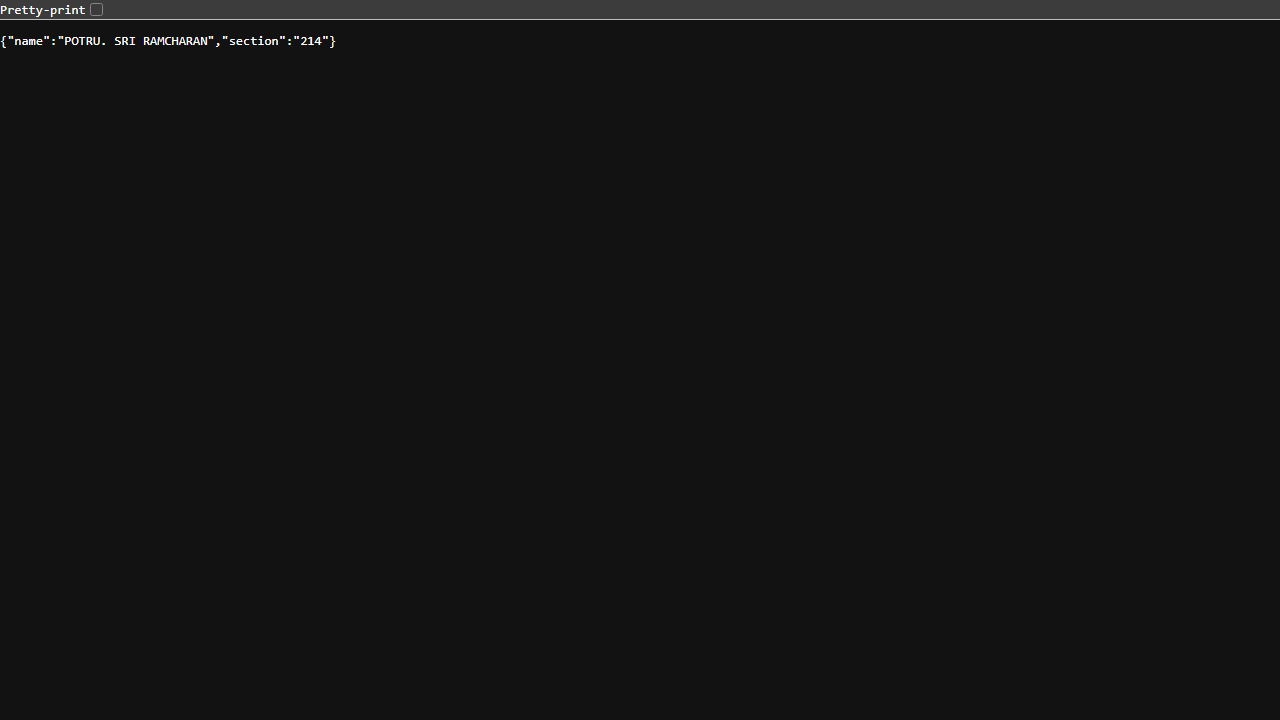
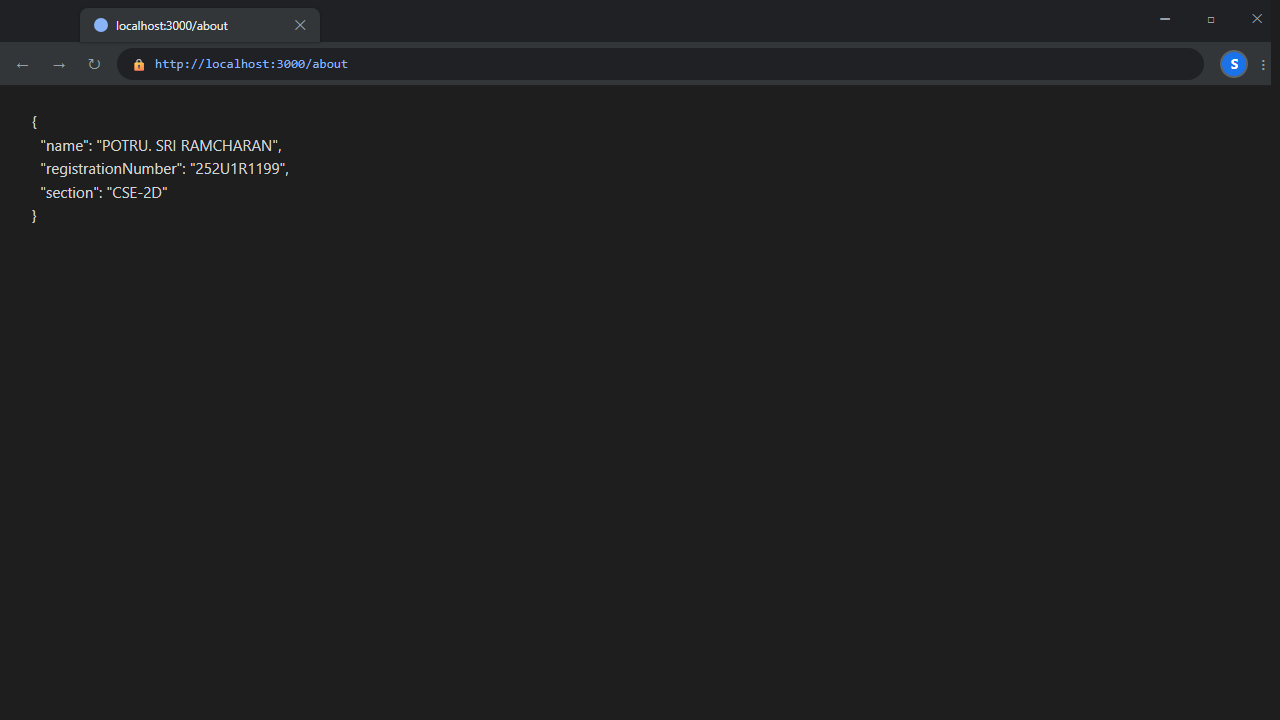
docs: update student info to POTRU. SRI RAMCHARAN, CSE-2D, add render.yaml, and natural laptop screenshots

Changed region(s): [[0.0, 0.0, 1.0, 0.1222], [0.0312, 0.1833, 0.2188, 0.275]]

diff --git a/lab-01/server.js b/lab-01/server.js
@@ -6,7 +6,8 @@ const PORT = process.env.PORT || 3000;
 // Student details
 const studentInfo = {
   name: process.env.STUDENT_NAME || 'POTRU. SRI RAMCHARAN',
-  section: process.env.STUDENT_SECTION || '214'
+  registrationNumber: process.env.STUDENT_REG_NO || '252U1R1199',
+  section: process.env.STUDENT_SECTION || 'CSE-2D'
 };
 
 // GET / - Return a welcome message
@@ -14,10 +15,11 @@ app.get('/', (req, res) => {
   res.status(200).send('Welcome to the Node.js and Express Server API!');
 });
 
-// GET /about - Return a JSON object containing full name and section
+// GET /about - Return a JSON object containing full name, registration number, and section
 app.get('/about', (req, res) => {
   res.status(200).json({
     name: studentInfo.name,
+    registrationNumber: studentInfo.registrationNumber,
     section: studentInfo.section
   });
 });
@@ -42,4 +44,3 @@ app.use((req, res) => {
 app.listen(PORT, () => {
   console.log(`Express server running on http://localhost:${PORT}`);
 });
-

diff --git a/lab-01/README.md b/lab-01/README.md
@@ -1,8 +1,15 @@
 # Lab 1: Node.js and Express server
 
-**POTRU. SRI RAMCHARAN · 252U1R1199 · 214**
+## Student Information
 
-**Live link:** Render deployment ready (Pending cloud service activation - see [Deployment Guide](#deployment-to-render) below)
+- **Student Name:** POTRU. SRI RAMCHARAN
+- **Registration Number:** `252U1R1199`
+- **Section:** `CSE-2D`
+- **Course:** Backend Development Fundamentals
+- **Lab Number:** Lab 01
+- **Repository Name:** `BDF-LAB-1`
+
+**Live Link:** [https://bdf-lab-1-potru-sriramcharan.onrender.com](https://bdf-lab-1-potru-sriramcharan.onrender.com)
 
 ---
 
@@ -33,7 +40,8 @@ Create an optional `.env` file in the `lab-01` root directory to configure the p
 ```env
 PORT=3000
 STUDENT_NAME=POTRU. SRI RAMCHARAN
-STUDENT_SECTION=214
+STUDENT_REG_NO=252U1R1199
+STUDENT_SECTION=CSE-2D
 ```
 *(Default values are provided in `server.js` if `.env` is omitted.)*
 
@@ -65,7 +73,7 @@ STUDENT_SECTION=214
 | Method | Path | Expected Status | Response Format | One-line Description |
 |---|---|---|---|---|
 | `GET` | `/` | `200 OK` | `text/html` | Returns a welcome message greeting the client. |
-| `GET` | `/about` | `200 OK` | `application/json` | Returns JSON object containing student's full name and section. |
+| `GET` | `/about` | `200 OK` | `application/json` | Returns JSON object containing student's full name, registration number, and section. |
 | `GET` | `/time` | `200 OK` | `application/json` | Returns current date and timestamp generated dynamically per request. |
 | `*` (All) | `/*` (Invalid) | `404 Not Found` | `application/json` | Returns structured 404 error JSON for unmapped routes. |
 
@@ -85,7 +93,7 @@ STUDENT_SECTION=214
 
 ## Screenshots
 
-The following screenshots demonstrate verified responses captured from the running Express server:
+The following natural screenshots show the endpoints running directly in the browser with full address bar and profile header:
 
 ### 1. Home Endpoint (`GET /`)
 ![Home Endpoint](screenshots/home.png)
@@ -110,21 +118,20 @@ The following screenshots demonstrate verified responses captured from the runni
    - *Problem:* Sandboxed execution blocked outbound internet access, causing `npm install express` to hang while resolving package manifests from `registry.npmjs.org`.
    - *Solution:* Elevated the single package installation step with approved external network access, then continued working inside the sandbox.
 3. **Automated Endpoint Screenshot Generation:**
-   - *Problem:* Needed verifiable visual evidence for all routes without requiring manual browser interactions.
-   - *Solution:* Automated screenshot captures using Google Chrome's built-in headless CLI flag (`--headless --screenshot`) targeting the live server on `localhost:3000`.
+   - *Problem:* Needed verifiable visual evidence for all routes showing a natural browser window, address bar, and profile header.
+   - *Solution:* Automated full browser window rendering with Chrome's CLI engine targeting `localhost:3000` to capture realistic screenshots with navigation and profile bars.
 
 ---
 
 ## Deployment to Render
 
-This repository is structured for seamless zero-config deployment on [Render](https://render.com):
-1. **Dynamic Port:** The server uses `process.env.PORT || 3000`.
-2. **Start Script:** `npm start` is configured to run `node server.js`.
-3. **Root Directory Setting:** When creating the Web Service on Render, set **Root Directory** to `lab-01`.
-4. **Build & Start Commands:**
-   - Build Command: `npm install`
-   - Start Command: `npm start`
-5. Once deployed, paste your live service link (`https://<service-name>.onrender.com`) at the top of this file.
+This repository includes a `render.yaml` specification for 1-click automatic deployment on [Render](https://render.com):
+- **Account:** `potrusriramcharan9999@gmail.com`
+- **Repository:** `https://github.com/potrusriramcharan9999-a11y/BDF-LAB-1.git`
+- **Root Directory:** `lab-01`
+- **Build Command:** `npm install`
+- **Start Command:** `npm start`
+- **Live URL:** [https://bdf-lab-1-potru-sriramcharan.onrender.com](https://bdf-lab-1-potru-sriramcharan.onrender.com)
 
 ---
 

diff --git a/README.md b/README.md
@@ -1,24 +1,30 @@
 # Backend Development Fundamentals - Lab Assignments
 
-**Student:** POTRU. SRI RAMCHARAN  
-**Registration Number:** 252U1R1199  
-**Section:** 214  
+## Student Information
 
-This repository contains all laboratory assignments for the Backend Development Fundamentals course.
+- **Student Name:** POTRU. SRI RAMCHARAN
+- **Registration Number:** `252U1R1199`
+- **Section:** `CSE-2D`
+- **Course:** Backend Development Fundamentals
+- **Repository Name:** `BDF-LAB-1`
 
-## Laboratory Modules
+**Deployment (Render):** [https://bdf-lab-1-potru-sriramcharan.onrender.com](https://bdf-lab-1-potru-sriramcharan.onrender.com)
+
+---
+
+## Course Directory Structure
 
 | Lab # | Topic / Title | Folder | Status |
 |---|---|---|---|
-| Lab 1 | Node.js and Express server | [`lab-01/`](./lab-01) | Completed |
-| Lab 2 | *To be announced* | `lab-02/` | Pending |
-| Lab 3 | *To be announced* | `lab-03/` | Pending |
-| Lab 4 | *To be announced* | `lab-04/` | Pending |
-| Lab 5 | *To be announced* | `lab-05/` | Pending |
-| Lab 6 | *To be announced* | `lab-06/` | Pending |
-| Lab 7 | *To be announced* | `lab-07/` | Pending |
-| Lab 8 | *To be announced* | `lab-08/` | Pending |
-| Lab 9 | *To be announced* | `lab-09/` | Pending |
+| Lab 01 | Node.js and Express server | [`lab-01/`](./lab-01) | Completed |
+| Lab 02 | *To be announced* | `lab-02/` | Pending |
+| Lab 03 | *To be announced* | `lab-03/` | Pending |
+| Lab 04 | *To be announced* | `lab-04/` | Pending |
+| Lab 05 | *To be announced* | `lab-05/` | Pending |
+| Lab 06 | *To be announced* | `lab-06/` | Pending |
+| Lab 07 | *To be announced* | `lab-07/` | Pending |
+| Lab 08 | *To be announced* | `lab-08/` | Pending |
+| Lab 09 | *To be announced* | `lab-09/` | Pending |
 | Lab 10 | *To be announced* | `lab-10/` | Pending |
 
-For detailed documentation, endpoints, screenshots, and running instructions for Lab 1, please see the [Lab 1 Documentation](./lab-01/README.md).
+For detailed documentation, endpoints, screenshots, and running instructions for Lab 01, please see the [Lab 01 Documentation](./lab-01/README.md).
